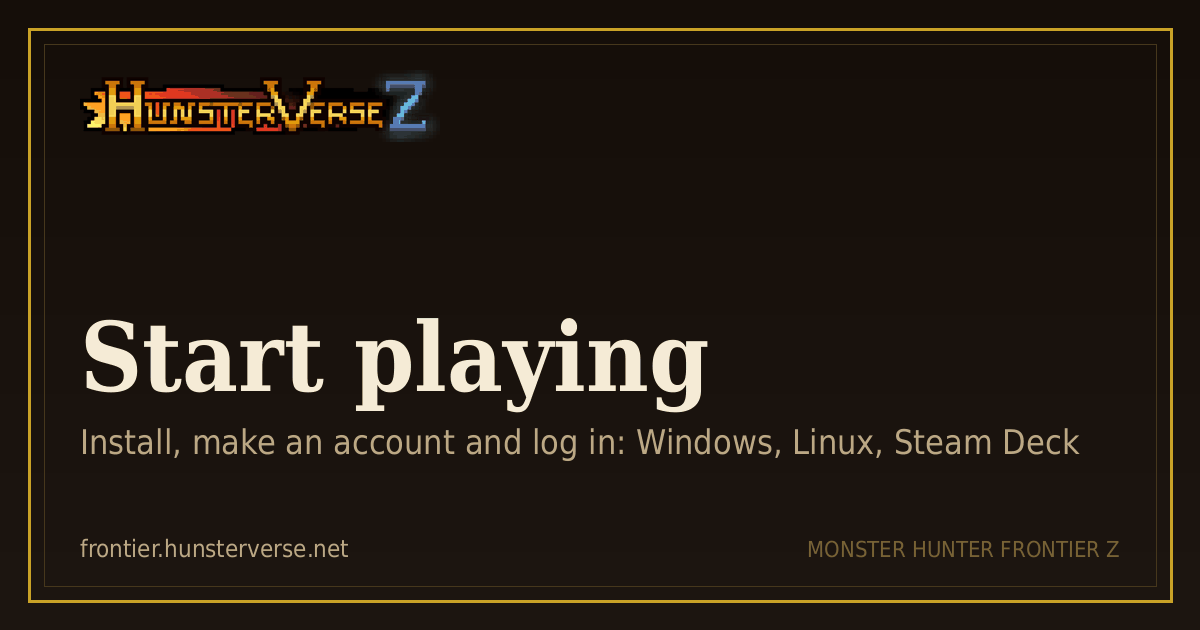
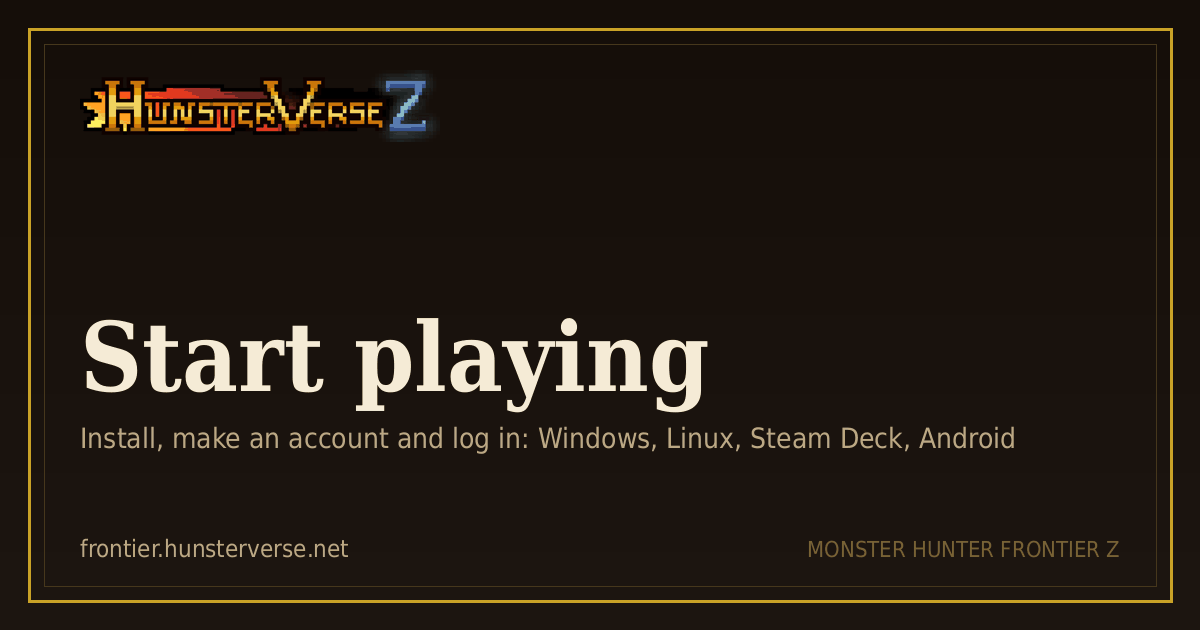
Live diagnostics page: its own share card; Play card mentions Android; 13 Nov share page

Changed region(s): [[0.0617, 0.6635, 0.8942, 0.7238], [0.3083, 0.1508, 0.37, 0.2111], [0.3083, 0.1206, 0.3392, 0.1508]]

diff --git a/s/changelog/2026-11-13.html b/s/changelog/2026-11-13.html
@@ -4,13 +4,13 @@
 <meta charset="utf-8" />
 <!-- dev/make-share-pages.py -->
 <title>Changelog: Friday 13 November 2026 · Hunsterverse</title>
-<meta name="description" content="Client patch · Game server · Road shop · Website. Client patch v1.23.; Client patch v1.22.; Sky Corridor 3rd and 4th Districts are much tougher; Sky Corridor update.; The Road shop rebalance.; Tower…" />
+<meta name="description" content="Client patch · Game server · Road shop · Website. Client patch v1.23.; Client patch v1.22.; Sky Corridor 3rd and 4th Districts are much tougher; Sky Corridor update.; The Road shop rebalance.; What…" />
 <meta name="robots" content="noindex, follow" />
 <link rel="canonical" href="https://frontier.hunsterverse.net/changelog.html#d-2026-11-13" />
 <meta property="og:type" content="website" />
 <meta property="og:site_name" content="Hunsterverse" />
 <meta property="og:title" content="Changelog: Friday 13 November 2026" />
-<meta property="og:description" content="Client patch · Game server · Road shop · Website. Client patch v1.23.; Client patch v1.22.; Sky Corridor 3rd and 4th Districts are much tougher; Sky Corridor update.; The Road shop rebalance.; Tower…" />
+<meta property="og:description" content="Client patch · Game server · Road shop · Website. Client patch v1.23.; Client patch v1.22.; Sky Corridor 3rd and 4th Districts are much tougher; Sky Corridor update.; The Road shop rebalance.; What…" />
 <meta property="og:url" content="https://frontier.hunsterverse.net/s/changelog/2026-11-13.html" />
 <meta property="og:image" content="https://frontier.hunsterverse.net/assets/og/changelog.png" />
 <meta property="og:image:width" content="1200" />

diff --git a/diagnostics-data.html b/diagnostics-data.html
@@ -10,13 +10,13 @@
 <meta property="og:title" content="What the game's live diagnostics sends · Hunsterverse" />
 <meta property="og:description" content="Everything the game&#x27;s live crash and usage reporting sends to Hunsterverse: when, every field, examples, what is never sent, who sees it, how long it is kept and how to turn it off." />
 <meta property="og:url" content="https://frontier.hunsterverse.net/diagnostics-data.html" />
-<meta property="og:image" content="https://frontier.hunsterverse.net/assets/og/hunsterverse.png" />
+<meta property="og:image" content="https://frontier.hunsterverse.net/assets/og/diagnostics-data.png" />
 <meta property="og:image:width" content="1200" />
 <meta property="og:image:height" content="630" />
 <meta name="twitter:card" content="summary_large_image" />
 <meta name="twitter:title" content="What the game's live diagnostics sends · Hunsterverse" />
 <meta name="twitter:description" content="Everything the game&#x27;s live crash and usage reporting sends to Hunsterverse: when, every field, examples, what is never sent, who sees it, how long it is kept and how to turn it off." />
-<meta name="twitter:image" content="https://frontier.hunsterverse.net/assets/og/hunsterverse.png" />
+<meta name="twitter:image" content="https://frontier.hunsterverse.net/assets/og/diagnostics-data.png" />
 <meta name="theme-color" content="#150e09" />
 <link rel="icon" href="/assets/favicon.png?v=2" />
 <link rel="apple-touch-icon" href="/assets/apple-touch-icon.png?v=2" />

diff --git a/dev/make-og.py b/dev/make-og.py
@@ -68,7 +68,8 @@ PAGES = {
     "guide-frontier-activities": ("What there is to do", "Quests, festivals, Road, Caravan, Raviente"),
     "guide-frontier-reference": ("Reference", "House, items, monsters, gathering and tools"),
     "guide-roads": ("Roads in game", "Choosing a Road, and what the rest of the party sees"),
-    "play": ("Start playing", "Install, make an account and log in: Windows, Linux, Steam Deck"),
+    "play": ("Start playing", "Install, make an account and log in: Windows, Linux, Steam Deck, Android"),
+    "diagnostics-data": ("Live diagnostics", "Every field the game sends, who sees it, and how to turn it off"),
     "weapons": ("Weapon database", "Every weapon, its motion values and a damage calculator"),
     "balance": ("Balance changes", "What the server changed in weapons and moves, and why"),
     "tournaments": ("Tournaments", "Speedrun Cup standings and the VS Bracket"),

diff --git a/dev/set-og.py b/dev/set-og.py
@@ -18,7 +18,7 @@ PAGE_CARD = {
     "changelog.html": "changelog", "api.html": "api",
     "play.html": "play", "weapons.html": "weapons", "balance.html": "balance", "tournaments.html": "tournaments",
     "sky-corridor.html": "sky-corridor", "road-data.html": "road-data", "road-history.html": "road-history",
-    "road.html": "road", "report.html": "report", "guide-roads.html": "guide-roads",
+    "road.html": "road", "report.html": "report", "diagnostics-data.html": "diagnostics-data", "guide-roads.html": "guide-roads",
     "guide-frontier.html": "guide-frontier",
 }
 # Every Frontier guide chapter with a card of its own (dev/make-og.py); the moved chapters keep the guide's.
